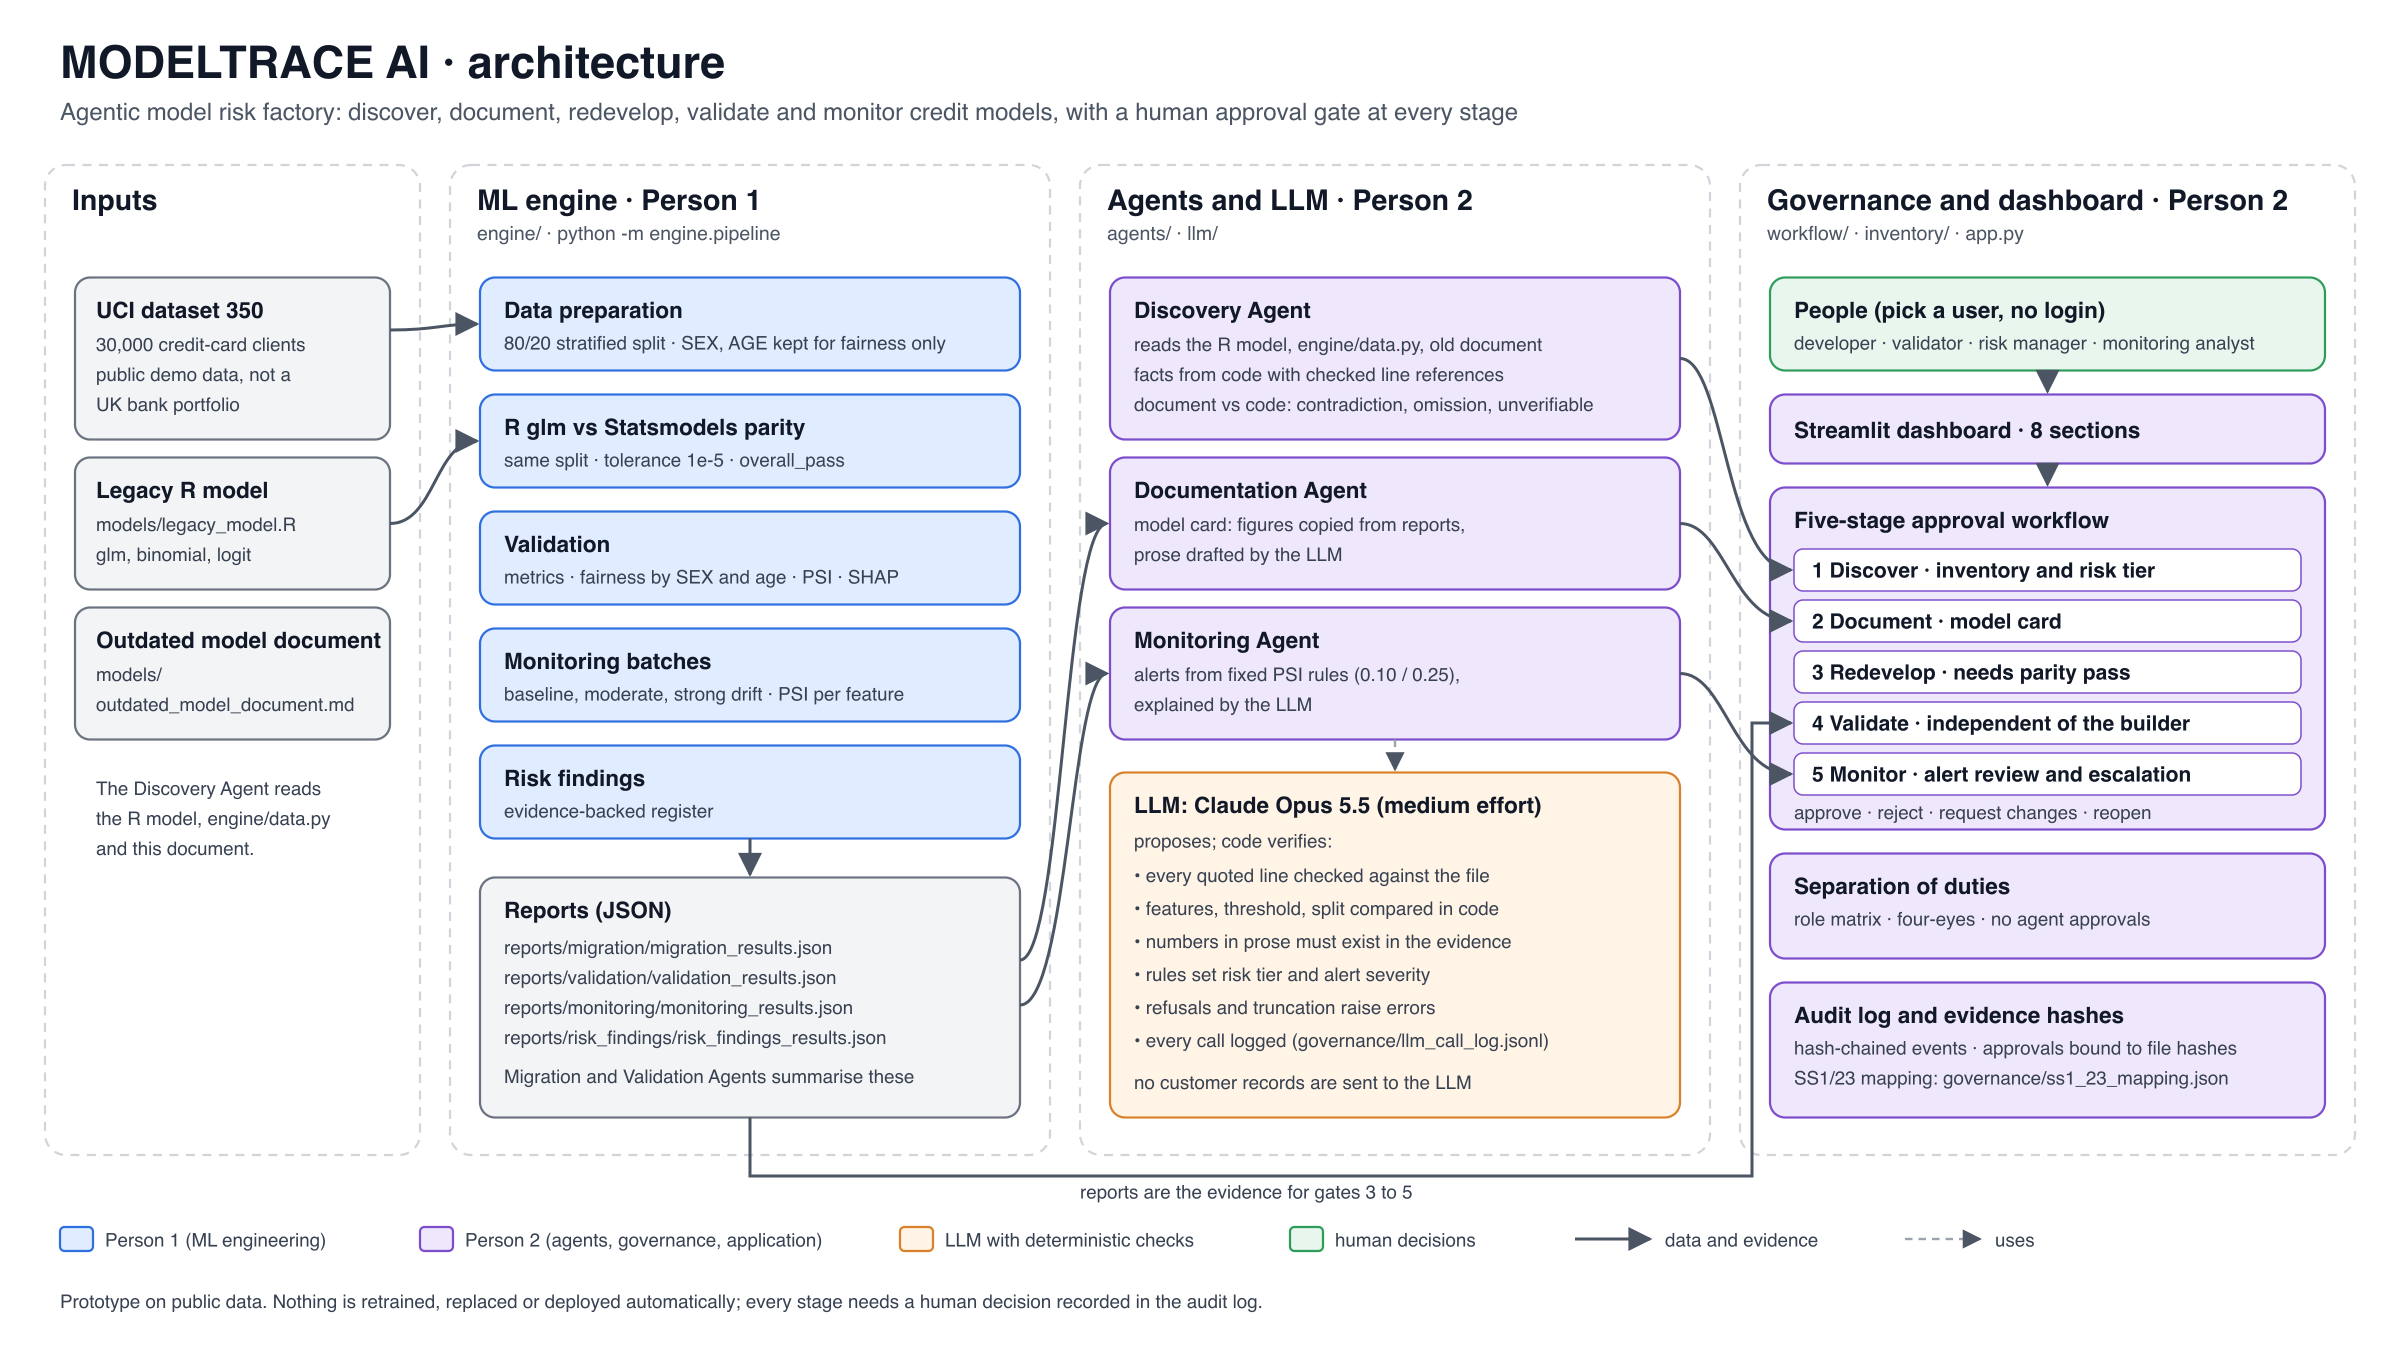
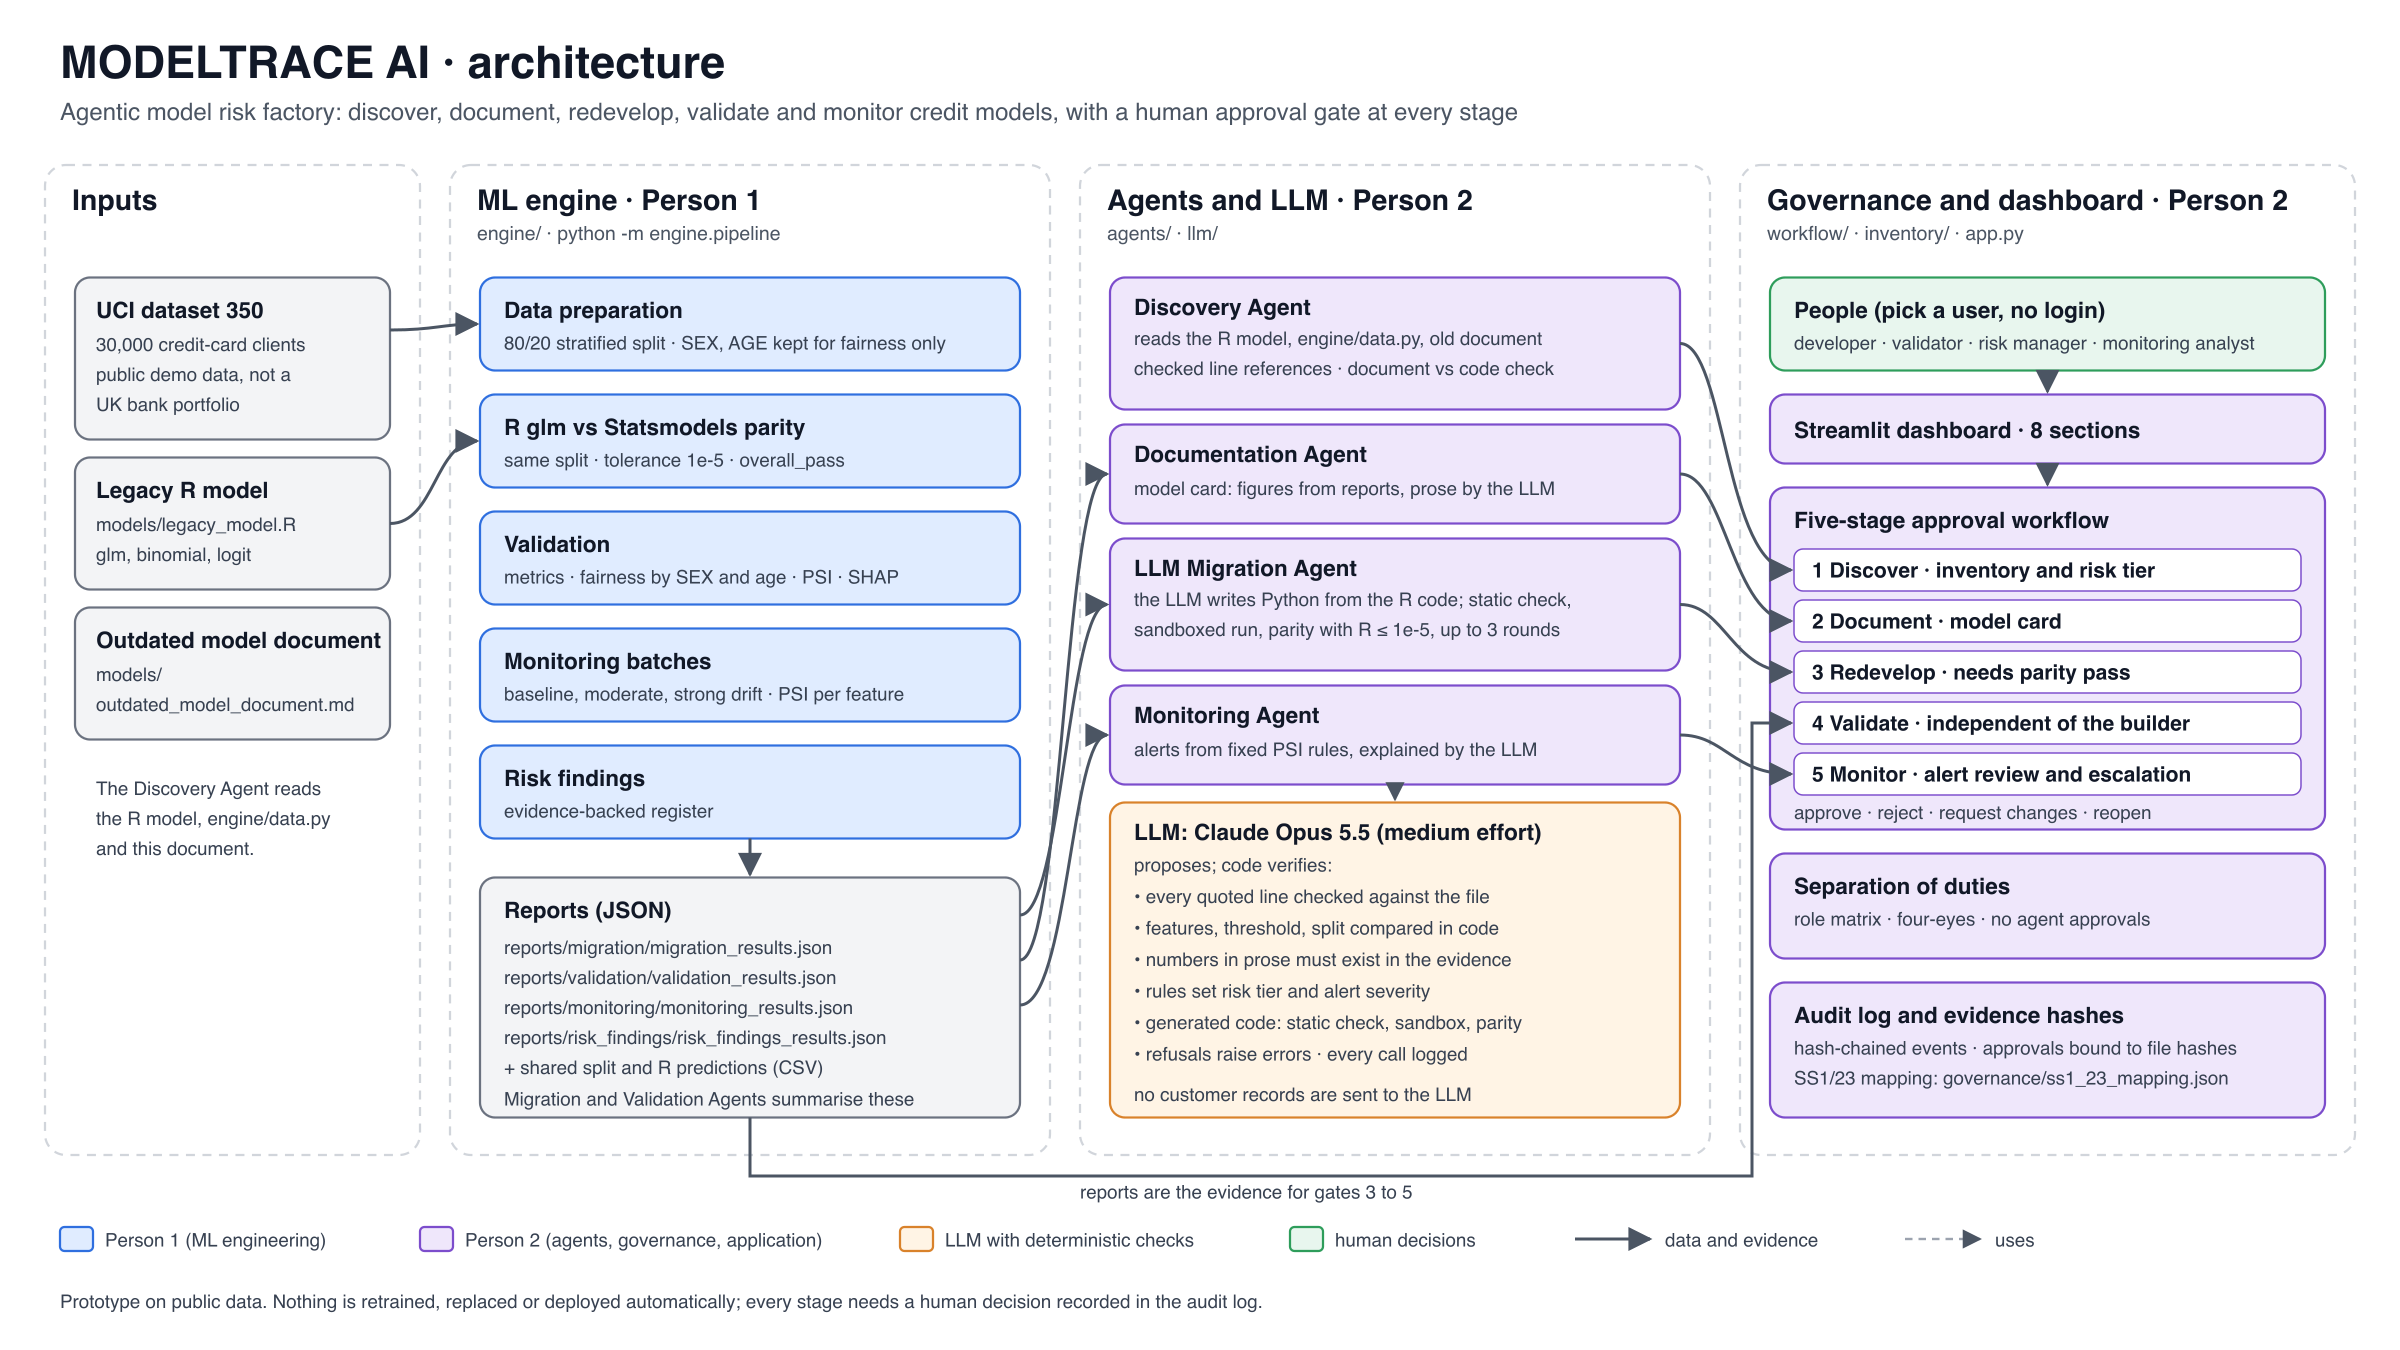
docs: describe the llm migration agent and its live run
The Responsible AI note said no LLM-generated code is executed, which is no
longer true; it now states how the generated candidate is contained and that
it does not open the Redevelop gate. README, design doc, AI-use declaration
and architecture diagram list the agent, the measured $0.10 live run and
the new test count (176).

diff --git a/docs/design/person2_design.md b/docs/design/person2_design.md
@@ -12,6 +12,7 @@ Scope, from the work split (P2.1–P2.5) and the plan (steps 5, 6, 13–16):
 | Five-stage approval workflow, separation of duties | 14 | `workflow/state_machine.py`, `workflow/approvals.py`, `governance/users.json` |
 | Audit log | 15 | `workflow/audit.py` |
 | Monitoring Agent and alert reviews | 13 | `agents/monitoring_agent.py`, `workflow/alerts.py` |
+| LLM Migration Agent: LLM-generated Python candidate, checked and run in isolation | P1.2 (LLM part) | `agents/llm_migration_agent.py`, `agents/migration_harness.py` |
 | Streamlit dashboard, Migration/Validation Agent integration | 16 | `app.py`, `workflow/artifacts.py` |
 
 ## 1. Design rules
@@ -35,6 +36,7 @@ Scope, from the work split (P2.1–P2.5) and the plan (steps 5, 6, 13–16):
  source files + old document ─► Discovery Agent ─► reports/discovery/<id>_discovery.json ─┐
  inventory + Person 1 reports ─► Documentation Agent ─► reports/documentation/, docs/model_cards/ ─┤
  Person 1: migration + parity ─► reports/migration/migration_results.json ──────────────┤
+   split + R predictions ─► LLM Migration Agent ─► reports/llm_migration/<id>_llm_migration.json (evidence only)
  Person 1: validation        ─► reports/validation/validation_results.json ─────────────┼─► approval gates
  Person 1: monitoring batches ─► reports/monitoring/monitoring_results.json             │   (workflow/)
                                    └─► Monitoring Agent ─► reports/alerts/<id>_alerts.json ┘
@@ -78,6 +80,18 @@ above 0.25 high; any schema change high; any missing value warning. Alert ids ar
 changed, impact, checks, recommendation: monitor / investigate / consider re-validation); it cannot retrain,
 replace or deploy anything.
 
+**LLM Migration** (`run_llm_migration`) — the work split asks for an LLM-generated Python candidate; Person 1's
+engine uses a hand-written one, so this agent adds the LLM part without changing Person 1's files. Each round:
+the LLM returns a module with `fit`, `predict_proba` and `classify`; `check_candidate` rejects imports outside
+numpy, pandas, statsmodels, patsy, math and typing, file and process access and escape hatches (`open`,
+`getattr`, dunder attributes); `migration_harness.py` runs it with `python -I -B` in its own temporary folder,
+with an environment holding no credentials, a timeout and, on macOS, `sandbox-exec` (no network, no `.env`
+reads, writes only in that folder); the predictions are compared with `reports/migration/r_predictions.csv`
+using Person 1's measures and tolerance. A failed round goes back with the static problems, the last line of
+the error or the aggregate figures, never data rows; at most three rounds. Inputs and tolerance are read from
+Person 1's parity report, and missing inputs stop the agent before any LLM call. The Redevelop gate is
+unchanged: it still reads Person 1's parity report.
+
 ## 5. Governance workflow (`workflow/`)
 
 **Stages:** Discover → Document → Redevelop → Validate → Monitor. Redevelop applies only to R or SAS models.
@@ -119,7 +133,8 @@ Governance. Each stage page ends with its approval gate, which lists the reasons
 for the current user. The sidebar picks the model, the acting user (prototype: no login) and a toggle that
 shows copies of Person 1's reports (from `ml-engineering` @ fdad799) with a banner while they are not on this
 branch. After the merge, the Migration and Validation buttons call Person 1's `MigrationAgent` and
-`ValidationAgent` classes.
+`ValidationAgent` classes. The Migration page also runs the LLM Migration Agent and shows each round, the
+generated module, the term mapping and the isolation used.
 
 ```bash
 .venv/bin/streamlit run app.py
@@ -178,14 +193,17 @@ same way. Install both dependency lists: `pip install -e ".[dev,validation,stats
   gates never read them.
 
 ## 10. Verification
-- 136 Person 2 tests, including compatibility tests for Person 1's interfaces and reports; with Person 1's 16 tests,
-  152 pass on the merged branch (Person 1's `ml-engineering` merged into `agent-governance` on 12 November).
+- 160 Person 2 tests, including compatibility tests for Person 1's interfaces and reports and the sandbox tests for
+  generated code; with Person 1's 16 tests, 176 pass on the merged branch (Person 1's `ml-engineering` merged into
+  `agent-governance` on 12 November).
 - Live Claude Opus 5.5 runs, each estimated with `count_tokens` first:
   - development fixture: $0.26 (seven calls);
   - Person 1's R model, `engine/data.py` and outdated document: $0.26 (four calls). No false alarm on the 0.5
     threshold; the missing feature list, split and preprocessing reported; every evidence section of the card
     filled from Person 1's reports with no grounding warnings;
   - Gradient Boosting and Random Forest discovery and cards, and alert explanations on Person 1's monitoring
-    report: $0.36 (six calls).
+    report: $0.36 (six calls);
+  - LLM Migration Agent on the UCI split: $0.10 (one call, estimate $0.05-$0.17), parity passed in the first
+    round with MAE 9.4e-9 and maximum difference 3.6e-7 against R, all 6000 labels equal.
 - Browser walkthrough: submit and approve Discover with two users, run the Monitoring Agent, acknowledge an
   alert, confirm the audit chain.

diff --git a/governance/ai_use_declaration.md b/governance/ai_use_declaration.md
@@ -9,10 +9,12 @@
 | Draft model-card prose (overview, methodology, limitations) | Claude Opus 5.5 | numbers must appear in the evidence; approval wording flagged; all figures in tables are copied by code | Document gate |
 | Draft the risk-tier rationale (optional) | Claude Opus 5.5 | discarded unless it names the tier the fixed rule computed | Discover gate |
 | Explain monitoring alerts | Claude Opus 5.5 | severity set by fixed PSI rules; numbers must appear in the batch data; high alerts cannot be downgraded | alert review, Monitor gate |
+| Write a Python version of the legacy R model | Claude Opus 5.5 | static check of imports and file or process access; run in an isolated process (sandboxed on macOS); predictions compared with R's within 1e-5; R terms in the mapping must appear in the R code | Redevelop gate (evidence for the reviewer) |
 
-Without an API key the product runs with template text, and only the Discovery Agent is unavailable. Every
-LLM call is logged in `governance/llm_call_log.jsonl`. Prompts contain code, model documents and aggregate
-metrics, never customer-level records.
+Without an API key the product runs with template text, and only the Discovery and LLM Migration Agents are
+unavailable. Every LLM call is logged in `governance/llm_call_log.jsonl`. Prompts contain code, model
+documents, aggregate metrics and, for a failed migration round, the error line of the run, never
+customer-level records.
 
 ## AI tools and existing code used to build the project
 
@@ -28,13 +30,15 @@ Data: UCI Default of Credit Card Clients (dataset 350), public.
 
 ## What was tested independently of the AI
 
-- 136 automated tests for Person 2's code and 16 for Person 1's (152 in all), run together on the merged branch. They cover
+- 160 automated tests for Person 2's code and 16 for Person 1's (176 in all), run together on the merged branch. They cover
   the evidence checks, the approval rules, tamper detection, the alert rules (checked against Person 1's own
-  severities) and the dashboard pages. The LLM is replaced by fakes in these tests.
+  severities), the static check, sandbox and revision loop for generated code, and the dashboard pages. The
+  LLM is replaced by fakes in these tests.
 - Live Claude runs with their cost measured before and after:
   - development fixture: $0.26;
   - Person 1's R model and documents: $0.26;
-  - Gradient Boosting and Random Forest cards plus alert explanations: $0.36.
+  - Gradient Boosting and Random Forest cards plus alert explanations: $0.36;
+  - Python version of the R model: $0.10, passed parity with R in the first round.
   Their outputs were read and spot-checked against the source files and reports.
 - A manual walkthrough of the dashboard in a browser: submissions, approvals, an agent run, an alert review
   and an audit-chain check.

diff --git a/README.md b/README.md
@@ -58,7 +58,7 @@ streamlit run app.py
 ```
 
 Without an API key the dashboard and the Documentation and Monitoring Agents still run with template text;
-only the Discovery Agent needs the LLM. With `LLM_PROVIDER=anthropic` the agents use Claude Opus 5.5 at
+only the Discovery and LLM Migration Agents need the LLM. With `LLM_PROVIDER=anthropic` the agents use Claude Opus 5.5 at
 medium effort; `LLM_PROVIDER=openai` works with any OpenAI-compatible endpoint. Never commit `.env`.
 
 ### What runs where
@@ -67,6 +67,7 @@ medium effort; `LLM_PROVIDER=openai` works with any OpenAI-compatible endpoint. 
 |---|---|---|
 | Discovery Agent: facts from code with checked line references; code vs existing document | `agents/discovery_agent.py` | `reports/discovery/<model_id>_discovery.json` |
 | Documentation Agent: model card, figures copied from Person 1's reports | `agents/documentation_agent.py` | `reports/documentation/`, `docs/model_cards/` |
+| LLM Migration Agent: the LLM writes a Python version of the R model; it is checked, run in isolation and compared with R's predictions, up to 3 rounds | `agents/llm_migration_agent.py`, `agents/migration_harness.py` | `reports/llm_migration/<model_id>_llm_migration.json`, `<model_id>_candidate.py` |
 | Monitoring Agent: rule-based alerts on Person 1's monitoring report, explained by the LLM | `agents/monitoring_agent.py` | `reports/alerts/<model_id>_alerts.json` |
 | Approval workflow, separation of duties, hash-chained audit log | `workflow/` | `governance/*.json` (git-ignored) |
 | Inventory and SS1/23 risk tier | `inventory/`, `governance/ss1_23_mapping.json` | `inventory/model_inventory.json` |
@@ -76,8 +77,12 @@ Command-line runs (the dashboard has the same buttons):
 ```bash
 python -m agents.discovery_agent --model-id legacy-r-logistic --source models/legacy_model.R --source engine/data.py --doc models/outdated_model_document.md
 python -m agents.documentation_agent --model-id legacy-r-logistic
+python -m agents.llm_migration_agent --model-id legacy-r-logistic --source models/legacy_model.R
 python -m agents.monitoring_agent --model-id legacy-r-logistic
 ```
+
+The LLM Migration Agent needs Person 1's shared split and R predictions (`python -m engine.pipeline`). Its
+report is evidence for the reviewer; the Redevelop gate still reads Person 1's parity report.
 
 Person 1 scores the Discovery report with the local answer key; the dashboard shows the result:
 

diff --git a/governance/responsible_ai.md b/governance/responsible_ai.md
@@ -39,9 +39,16 @@ prose. To limit hallucination:
 Prompts contain source code, model documents and aggregate metrics, never customer-level records. Every call
 is logged (hashes, model, tokens, outcome) in `governance/llm_call_log.jsonl`.
 
-**Generated code** *(Person 1 to review)*. No LLM-generated code is executed. The Python candidate is written by
-Person 1 and parity-tested against the R `glm` on the same split: maximum probability difference 3.6e-7
-against a tolerance of 1e-5. The Redevelop stage can be approved only when this test passes.
+**Generated code** *(Person 1 to review)*. The Python candidate used by the engine is written by Person 1 and
+parity-tested against the R `glm` on the same split: maximum probability difference 3.6e-7 against a tolerance
+of 1e-5. The Redevelop stage can be approved only when this test passes. The LLM Migration Agent also has the
+LLM write a candidate from the R code, and that code is executed, so it is contained: a static check rejects
+imports outside numpy, pandas, statsmodels, patsy, math and typing, and any file or process access; a fixed
+harness runs it in a separate process with no credentials in its environment and a timeout; on macOS a
+sandbox also blocks the network, reads of `.env` files and writes outside its temporary folder. On other
+systems only the static check, the process and the timeout apply. Its predictions are compared with R's
+under the same tolerance, and a failed round goes back to the LLM with the error line or aggregate figures,
+never data rows. Its report is evidence for the reviewer; it does not open the gate.
 
 **Auditability.** Each approval stores a hash of the file it approved, so a later change to that evidence is
 shown as a stale approval. Every action goes into an audit log where each entry carries the hash of the previous
